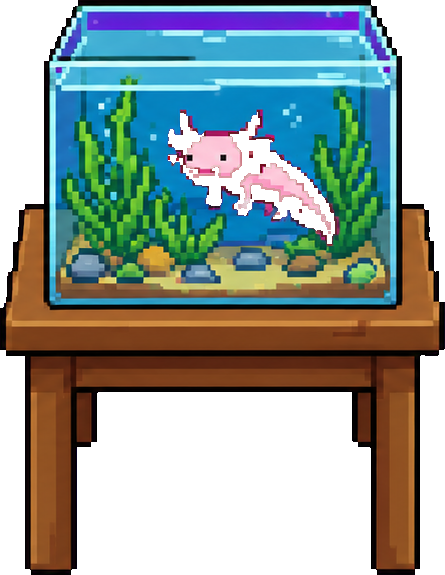
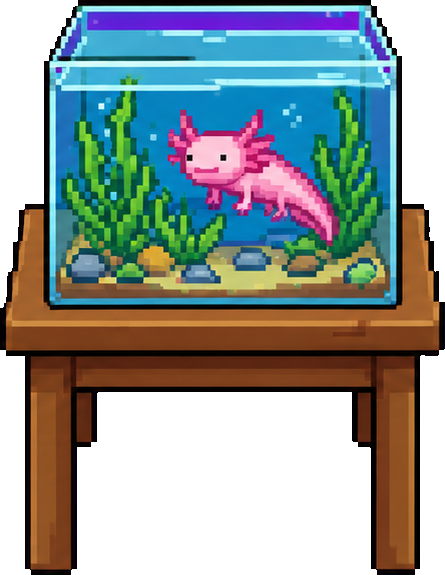
fix: el ajolote de la pecera y las flores de la cobija ya no salen con hoyos
El limpiador del fondo borraba cualquier pixel rosa parecido al magenta, aunque estuviera
dentro del dibujo. Con huecos=False solo quita el fondo que toca la orilla de la imagen.

Changed region(s): [[0.3798, 0.1774, 0.7596, 0.4435]]

diff --git a/tools/arte/procesar.py b/tools/arte/procesar.py
@@ -23,8 +23,8 @@ from arte import RAIZ, cargar, construir_atlas, guardar, hacer_repetible, hacer_
 ASSETS = RAIZ / "assets"
 
 
-def objetos(fuente: str, nombres: list[str | None], destino: str, area_min: int = 400) -> dict[str, Image.Image]:
-    rgba = quitar_fondo(cargar(fuente))
+def objetos(fuente: str, nombres: list[str | None], destino: str, area_min: int = 400, huecos: bool = True) -> dict[str, Image.Image]:
+    rgba = quitar_fondo(cargar(fuente), huecos=huecos)
     encontrados = separar_objetos(rgba, area_min=area_min)
     if len(encontrados) != len(nombres):
         raise SystemExit(f"{fuente}: se esperaban {len(nombres)} objetos y se encontraron {len(encontrados)}")
@@ -676,7 +676,7 @@ def casa() -> None:
         guardar(recortar(rgba, obj), ASSETS / "maps/casa" / f"{nombre}.png")
     # La cama y la pecera de la primera hoja venían en diagonal: se usan las de frente
     # (la pecera ya trae al achoque adentro).
-    objetos("casa_muebles_frente.png", ["cama", "pecera"], "maps/casa")
+    objetos("casa_muebles_frente.png", ["cama", "pecera"], "maps/casa", huecos=False)
 
 
 GRUPOS = {"animales_valle": animales_valle, "casa": casa, "guardianes": guardianes, "valle": valle, "zona1": zona1, "personajes": personajes, "ui": ui, "filtro": puzzle_filtro, "zona2": zona2, "bitacora": bitacora, "zona3": zona3}

diff --git a/tools/arte/arte.py b/tools/arte/arte.py
@@ -53,9 +53,15 @@ def _inundar(candidato: np.ndarray) -> np.ndarray:
     return visto
 
 
-def quitar_fondo(img: np.ndarray, quitar_sombras: bool = True) -> np.ndarray:
-    """Devuelve RGBA uint8 sin el fondo magenta (y sin las sombras magenta si se pide)."""
+def quitar_fondo(img: np.ndarray, quitar_sombras: bool = True, huecos: bool = True) -> np.ndarray:
+    """Devuelve RGBA uint8 sin el fondo magenta (y sin las sombras magenta si se pide).
+
+    `huecos=False`: solo se quita el fondo que toca la orilla de la imagen. Para dibujos con
+    partes rosas por dentro (el ajolote), que si no se volverían transparentes.
+    """
     fondo = _es_magenta(img, fuerte=True) | _parecido_al_borde(img)
+    if not huecos:
+        fondo = _inundar(fondo)
     if quitar_sombras:
         fondo |= _inundar(_es_magenta(img, fuerte=False)) | (_es_magenta(img, fuerte=False) & fondo_cerca(fondo, 3))
     alfa = np.where(fondo, 0, 255).astype(np.uint8)
